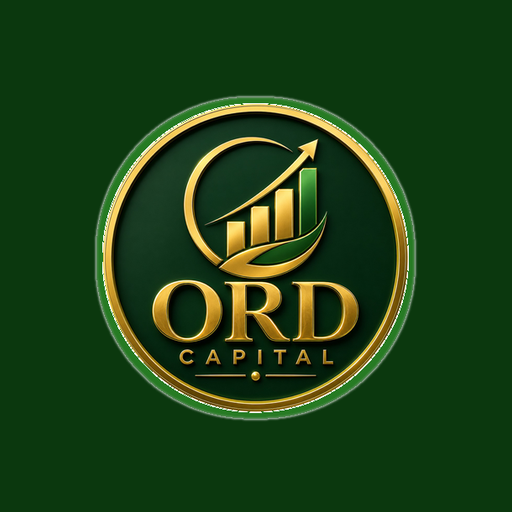
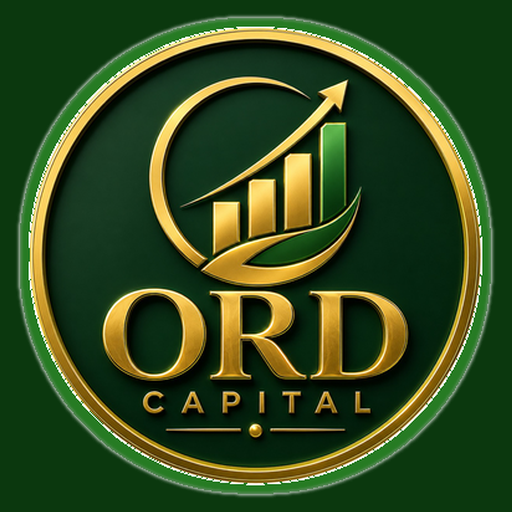
subida a produccion last

diff --git a/src/pages/Presupuestos/Presupuestos.css b/src/pages/Presupuestos/Presupuestos.css
@@ -384,19 +384,31 @@
 .presupuestos-footer-tip {
   margin: 8px 16px 16px;
   padding: 12px 16px;
-  background: var(--surface-2);
+  background: var(--surface-1, #262626);
   border: 1px solid var(--border);
   border-left: 4px solid var(--amber);
-  border-radius: 10px;
+  border-radius: 12px;
   font-size: calc(12px * var(--font-scale));
   color: var(--text);
   display: flex;
-  gap: 8px;
+  gap: 10px;
   align-items: flex-start;
   line-height: 1.5;
+  box-shadow: 0 2px 8px rgba(0, 0, 0, 0.04);
 }
 .presupuestos-footer-tip span {
   color: var(--text);
+}
+
+[data-theme='warm-light'] .presupuestos-footer-tip {
+  background: #FFFFFF !important;
+  color: #1A1108 !important;
+  border: 1px solid rgba(60, 40, 20, 0.15) !important;
+  border-left: 4px solid #B46C13 !important;
+  box-shadow: 0 2px 8px rgba(0, 0, 0, 0.05) !important;
+}
+[data-theme='warm-light'] .presupuestos-footer-tip span {
+  color: #1A1108 !important;
 }
 .tip-icono { flex-shrink: 0; }
 

diff --git a/public/sw.js b/public/sw.js
@@ -2,7 +2,7 @@
 // Plantilla del Service Worker. El script scripts/build-sw.js genera
 // public/sw.js. No editar public/sw.js a mano: se sobreescribe.
 
-const CACHE_NAME = 'ord-capital-d9d555a-1786055409751';
+const CACHE_NAME = 'ord-capital-1d1dab5-1786056268205';
 const ASSETS_TO_CACHE = [
   '/',
   '/index.html',

diff --git a/scripts/publish_scratch_icons.py b/scripts/publish_scratch_icons.py
@@ -1,0 +1,53 @@
+import os
+from PIL import Image
+
+def publish_icons():
+    green_src = 'scratch/preview_logo_green_95.png'
+    white_src = 'scratch/preview_logo_white_95.png'
+
+    if not os.path.exists(green_src):
+        raise FileNotFoundError(f"Source file not found: {green_src}")
+    if not os.path.exists(white_src):
+        raise FileNotFoundError(f"Source file not found: {white_src}")
+
+    green_img = Image.open(green_src).convert('RGBA')
+    white_img = Image.open(white_src).convert('RGBA')
+
+    os.makedirs('public', exist_ok=True)
+
+    # 1. Green PWA Icons
+    # A) logo.png (1024x1024)
+    green_img.resize((1024, 1024), Image.Resampling.LANCZOS).save('public/logo.png', 'PNG')
+    print('Saved public/logo.png (1024x1024)')
+
+    # B) icono_logo.png (512x512)
+    green_img.resize((512, 512), Image.Resampling.LANCZOS).save('public/icono_logo.png', 'PNG')
+    print('Saved public/icono_logo.png (512x512)')
+
+    # C) icon-512.png (512x512)
+    green_img.resize((512, 512), Image.Resampling.LANCZOS).save('public/icon-512.png', 'PNG')
+    print('Saved public/icon-512.png (512x512)')
+
+    # D) icon-192.png (192x192)
+    green_img.resize((192, 192), Image.Resampling.LANCZOS).save('public/icon-192.png', 'PNG')
+    print('Saved public/icon-192.png (192x192)')
+
+    # E) apple-touch-icon.png (180x180)
+    green_img.resize((180, 180), Image.Resampling.LANCZOS).save('public/apple-touch-icon.png', 'PNG')
+    print('Saved public/apple-touch-icon.png (180x180)')
+
+    # F) favicon.png (192x192)
+    green_img.resize((192, 192), Image.Resampling.LANCZOS).save('public/favicon.png', 'PNG')
+    print('Saved public/favicon.png (192x192)')
+
+    # 2. White Shortcut PWA Icons
+    # A) icon-shortcut-add.png (512x512)
+    white_img.resize((512, 512), Image.Resampling.LANCZOS).save('public/icon-shortcut-add.png', 'PNG')
+    print('Saved public/icon-shortcut-add.png (512x512)')
+
+    # B) icon-shortcut-add-192.png (192x192)
+    white_img.resize((192, 192), Image.Resampling.LANCZOS).save('public/icon-shortcut-add-192.png', 'PNG')
+    print('Saved public/icon-shortcut-add-192.png (192x192)')
+
+if __name__ == '__main__':
+    publish_icons()
